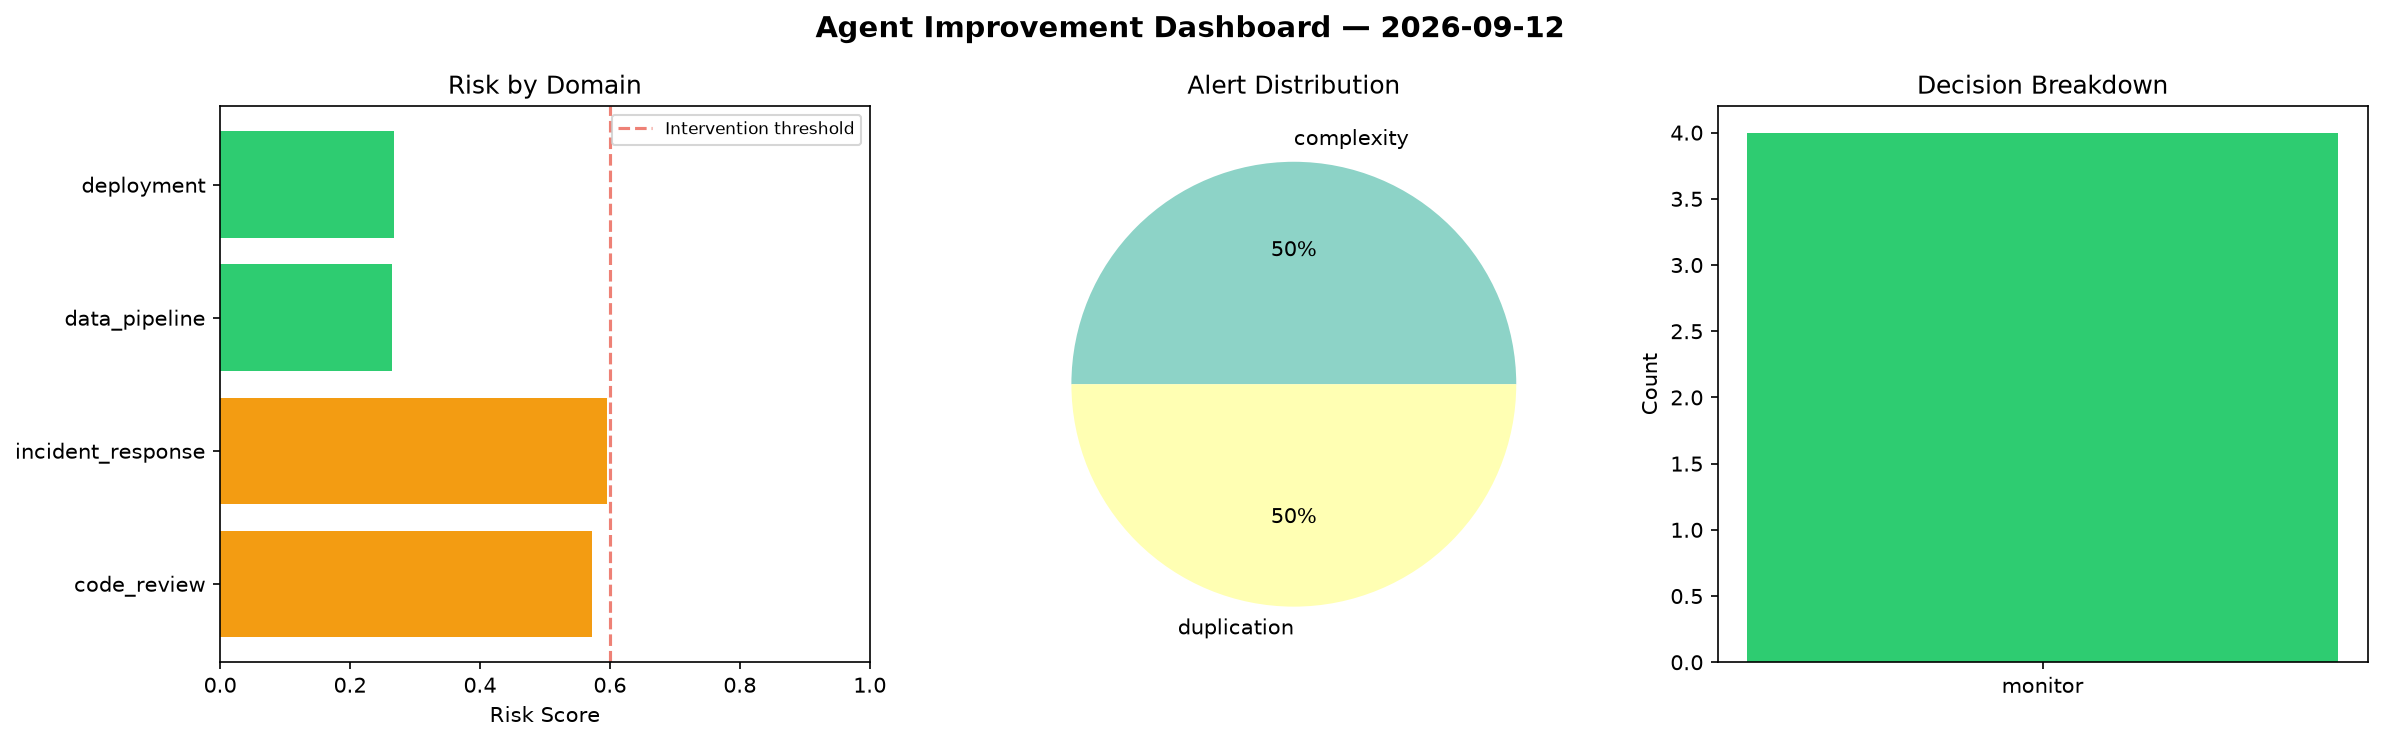
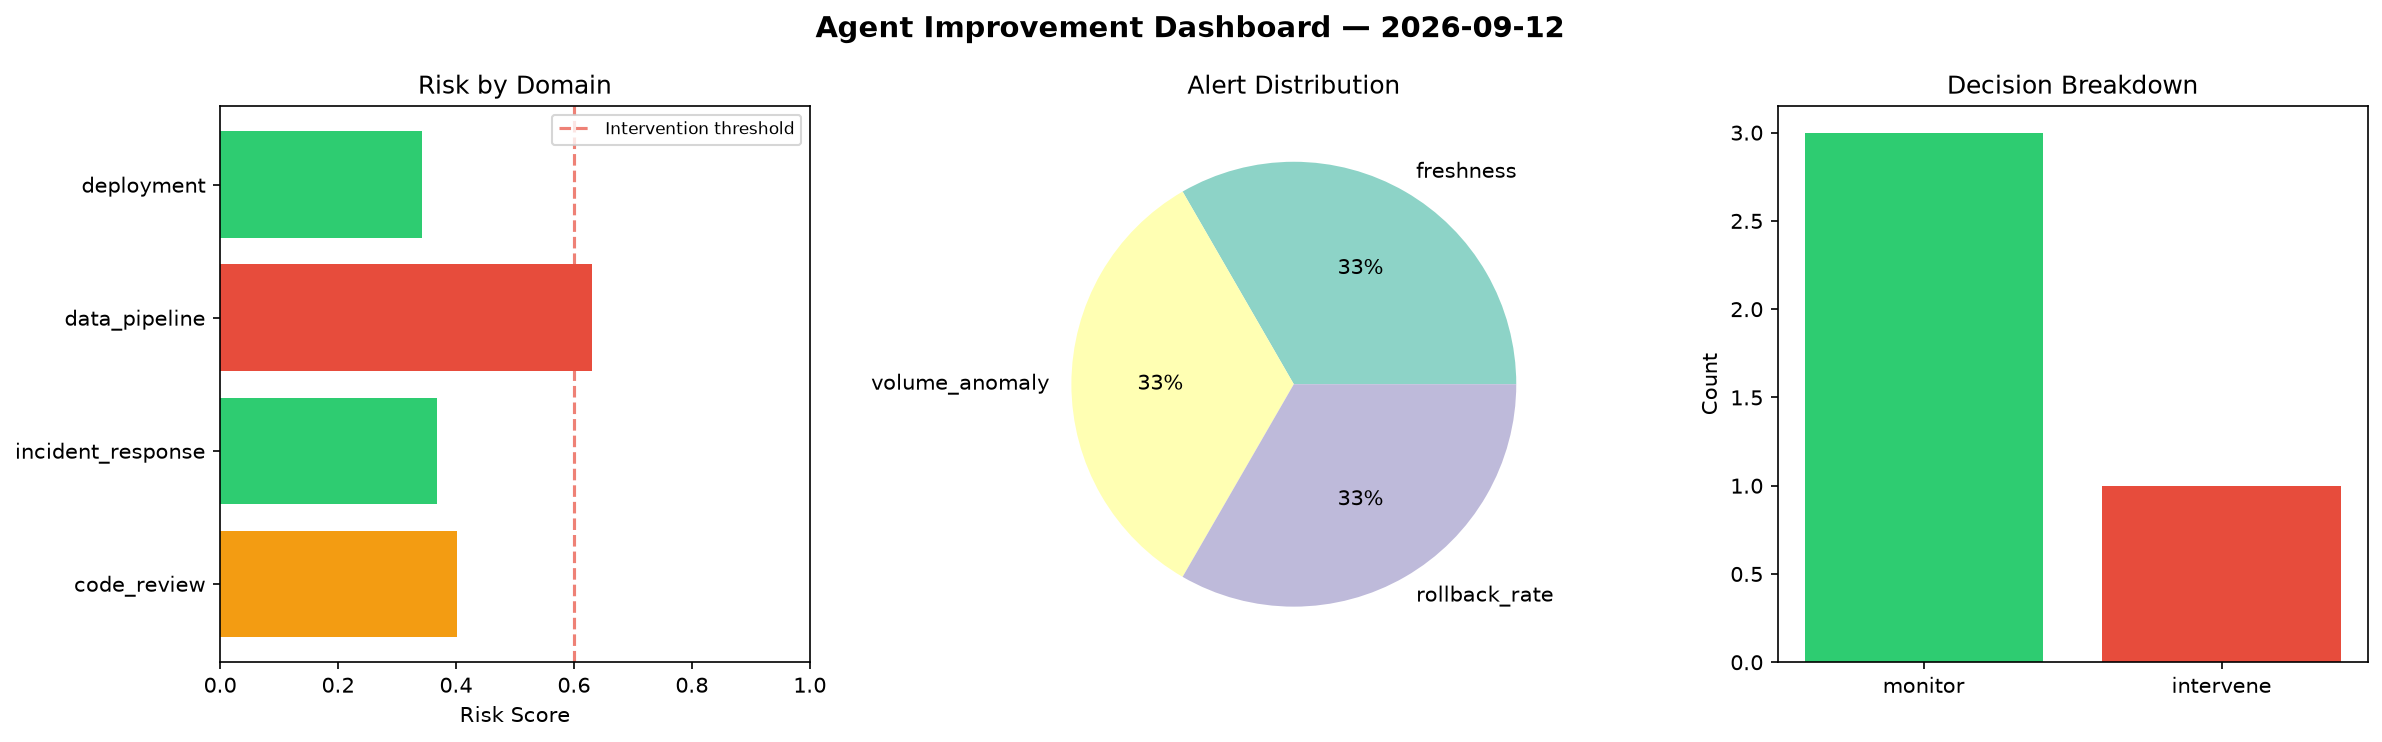
agent-improvement: daily cycle 2026-09-12T17:11

diff --git a/logs/2026-09-12.md b/logs/2026-09-12.md
@@ -1,6 +1,6 @@
 # Agent Improvement Report — 2026-09-12
 
-**Cycle ID:** `daeae61e` | **Avg Risk:** 0.4249 | **Interventions:** 0/4
+**Cycle ID:** `f6b0aa3a` | **Avg Risk:** 0.4356 | **Interventions:** 1/4
 
 ![Dashboard](2026-09-12_dashboard.png)
 
@@ -10,18 +10,18 @@
 
 | Domain | Risk Score | Decision | Alerts |
 |--------|-----------|----------|--------|
-| code_review | 0.5732 | monitor | complexity, duplication |
-| incident_response | 0.5951 | monitor | none |
-| data_pipeline | 0.2639 | monitor | none |
-| deployment | 0.2676 | monitor | none |
+| code_review | 0.4023 | monitor | none |
+| incident_response | 0.367 | monitor | none |
+| data_pipeline | 0.6308 | intervene | freshness, volume_anomaly |
+| deployment | 0.3421 | monitor | rollback_rate |
 
 ## Delta vs Yesterday
 
 | Domain | Today | Yesterday | Change |
 |--------|-------|-----------|--------|
-| code_review | 0.5732 | 0.6364 | 📉 -9.9% |
-| incident_response | 0.5951 | 0.5353 | 📈 11.2% |
-| data_pipeline | 0.2639 | 0.5589 | 📉 -52.8% |
-| deployment | 0.2676 | 0.4106 | 📉 -34.8% |
+| code_review | 0.4023 | 0.6364 | 📉 -36.8% |
+| incident_response | 0.367 | 0.5353 | 📉 -31.4% |
+| data_pipeline | 0.6308 | 0.5589 | 📈 12.9% |
+| deployment | 0.3421 | 0.4106 | 📉 -16.7% |
 
 **Refinement:** `{'adjustment': 'maintain', 'trend': 'improving', 'window': 4}`
